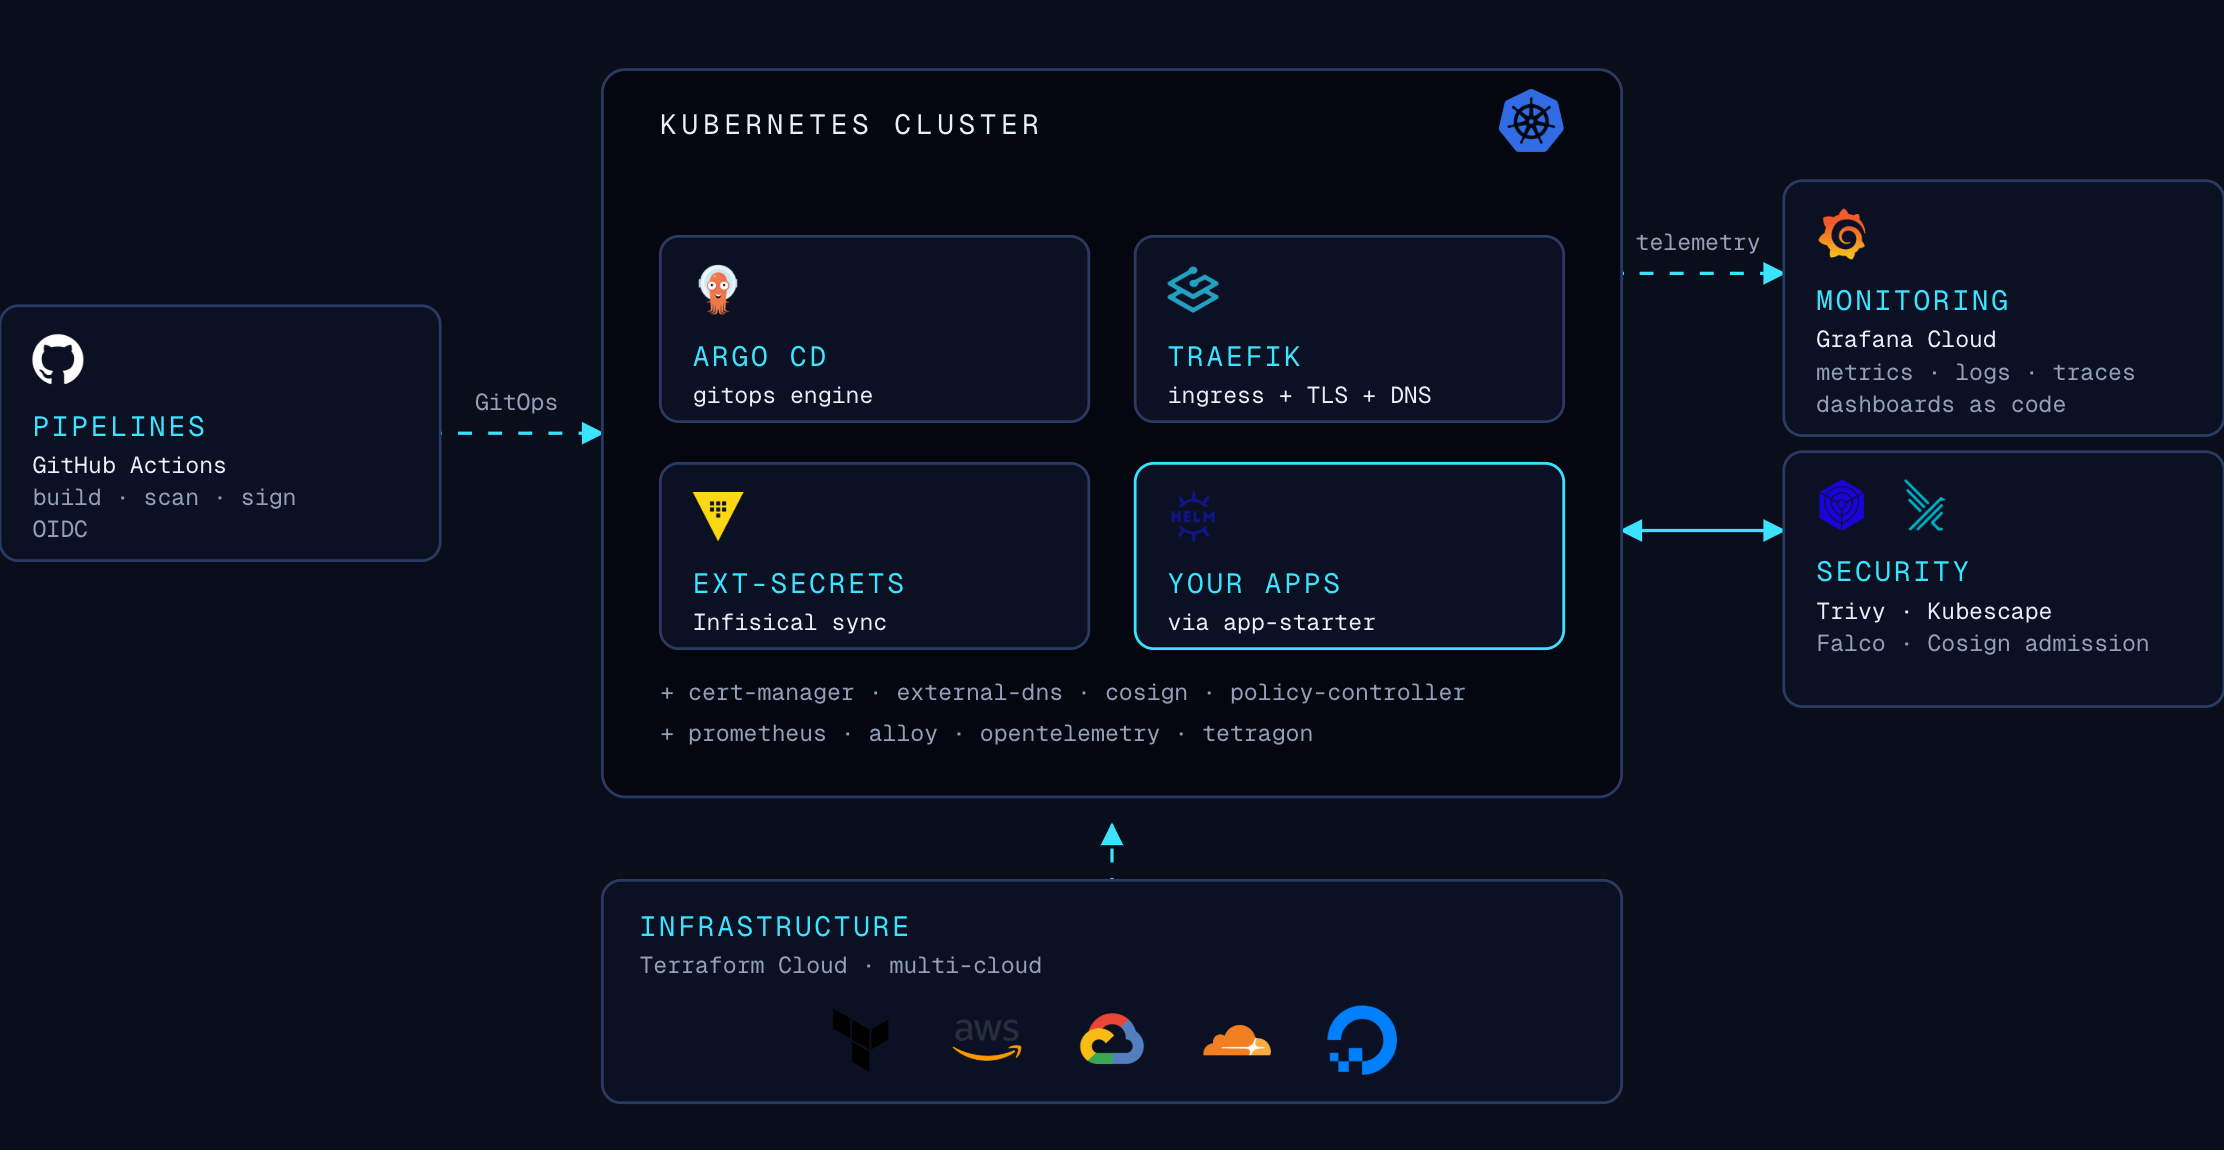
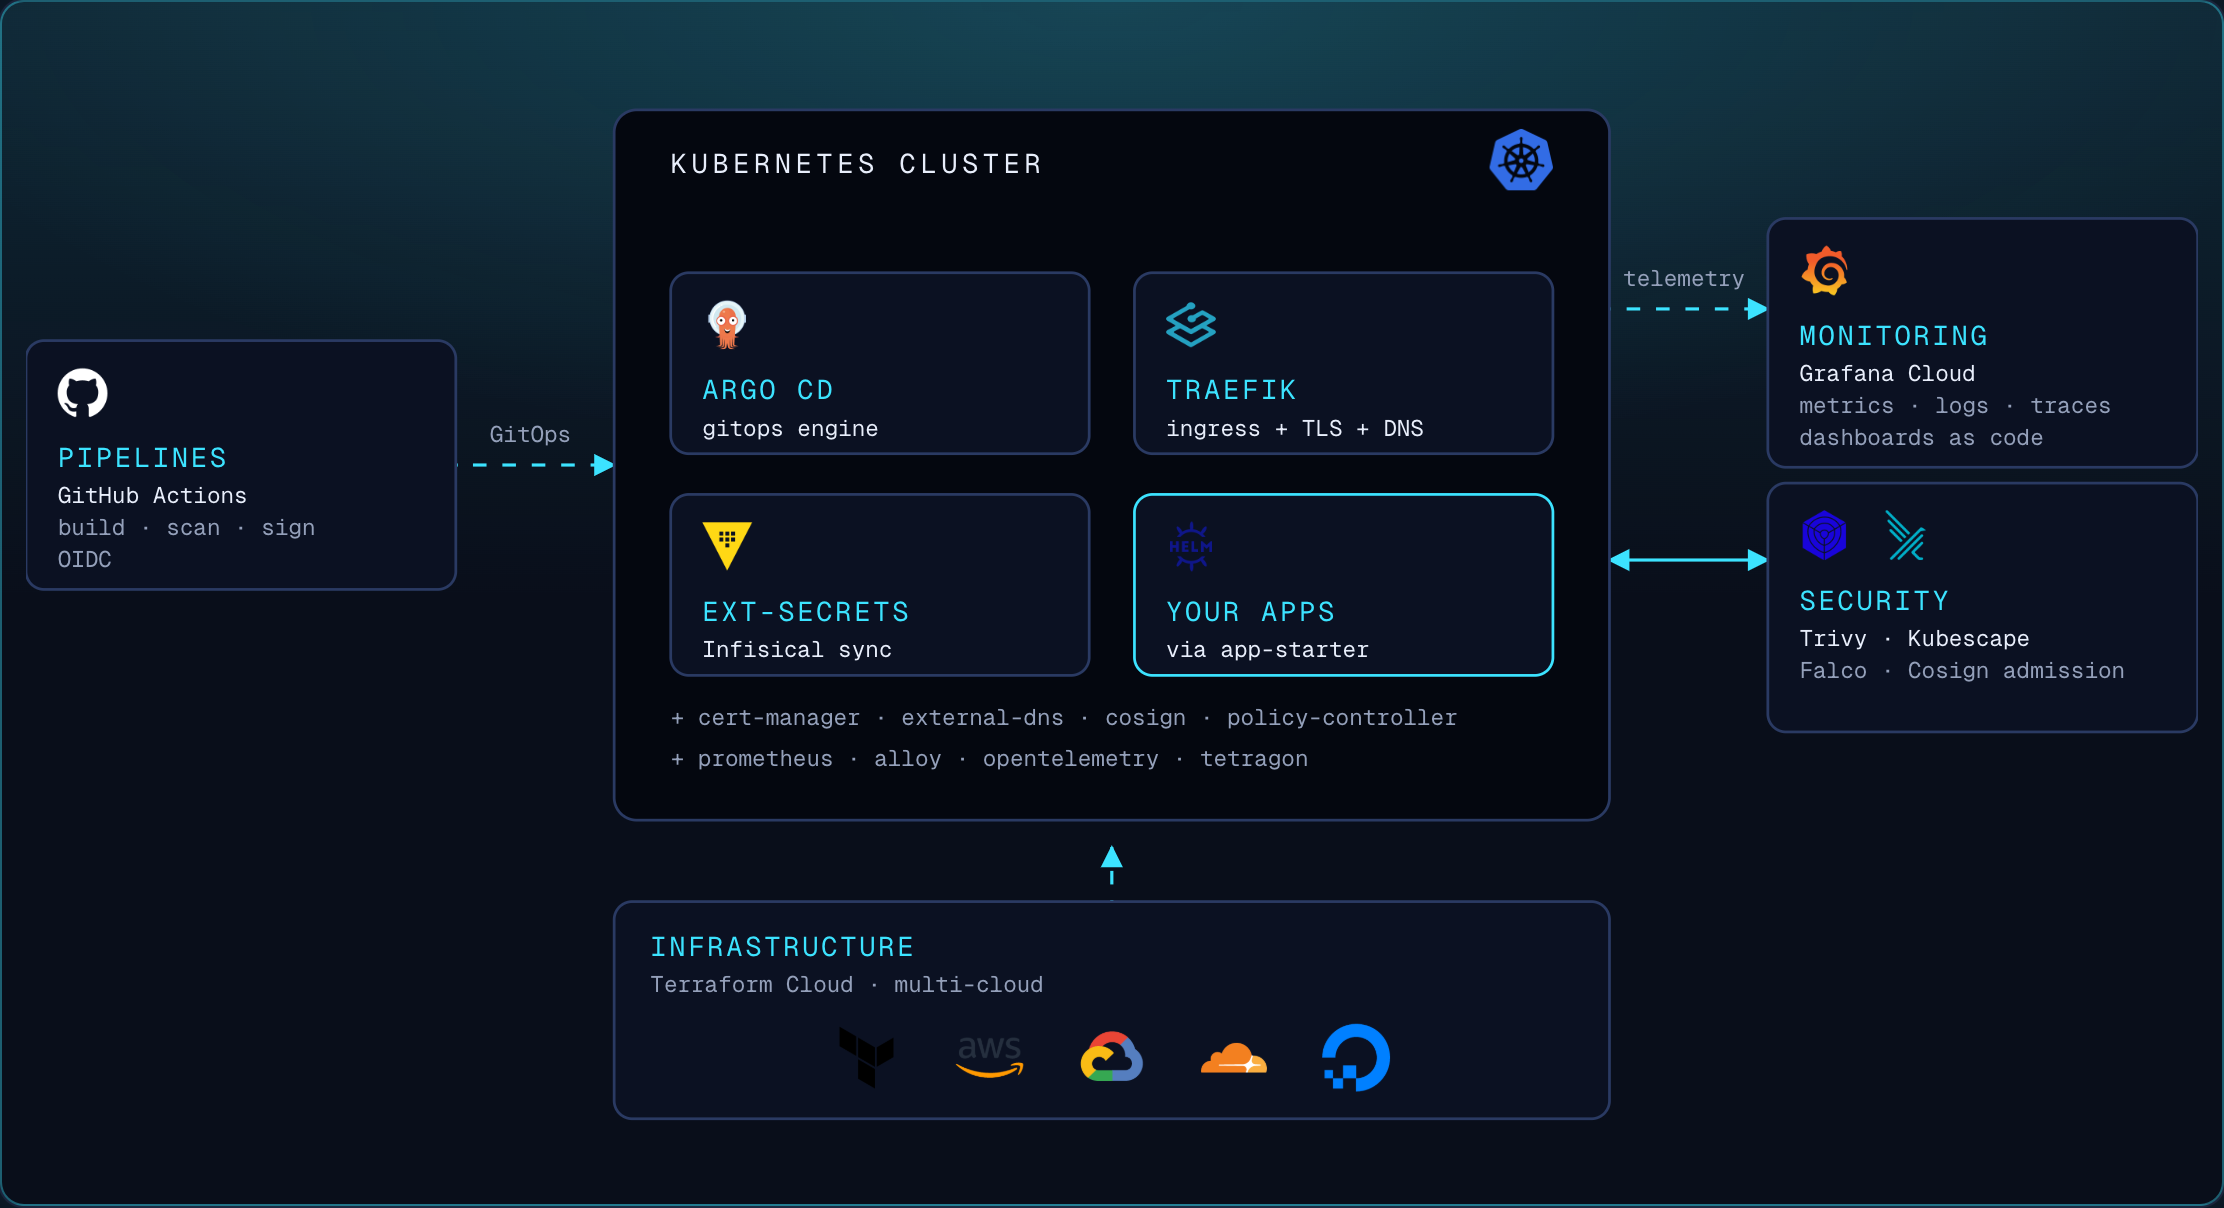
docs(profile): lead with platform diagram, drop agents image
Move the platform map to the top, link agents in prose only, and remove the broken agents diagram asset and Pillow renderer.

diff --git a/profile/README.md b/profile/README.md
@@ -4,13 +4,10 @@
 
 Synkube is an infrastructure and DevOps automation company focused on cloud-native solutions. We build production-tested applications, platform starter kits, and deployment pipelines.
 
----
+[![SynKube platform — Terraform, GitOps, CI, and runtime security](../assets/github-profile-platform.png)](https://synkube.com)
 
-## Agent platform
-
-[![SynKube agent platform](../assets/github-profile-agents.png)](https://synkube.com/agents)
-
-**[synkube.com/agents](https://synkube.com/agents)** — Hermes agents with context, skills, bootstrap, and memory. Ephemeral GitHub and cloud IAM access for delivery automation.
+**[synkube.com](https://synkube.com)** — Multi-cloud Kubernetes with Terraform, GitOps, shift-left CI, and runtime security.  
+**[synkube.com/agents](https://synkube.com/agents)** — Hermes agents for delivery automation (context, skills, ephemeral GitHub and cloud access).
 
 ---
 
@@ -37,10 +34,6 @@ Reusable GitHub Actions and workflows: GitOps deploy, Docker build/push to GHCR,
 ---
 
 ## Platform (private repos)
-
-[![SynKube platform](../assets/github-profile-platform.png)](https://synkube.com)
-
-**[synkube.com](https://synkube.com)** — Multi-cloud Kubernetes with Terraform, GitOps, shift-left CI, and runtime security.
 
 ### Synkube Lite (DigitalOcean)
 
